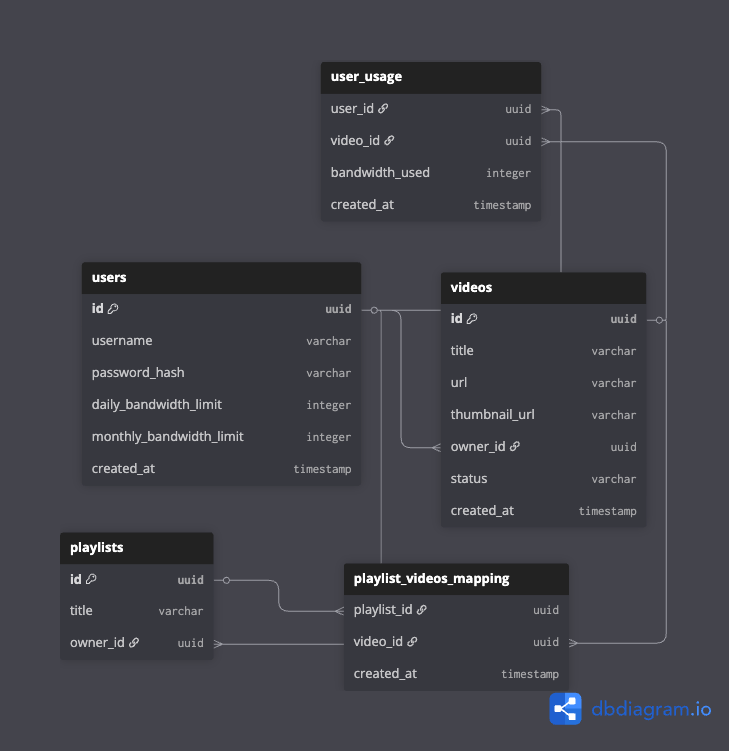
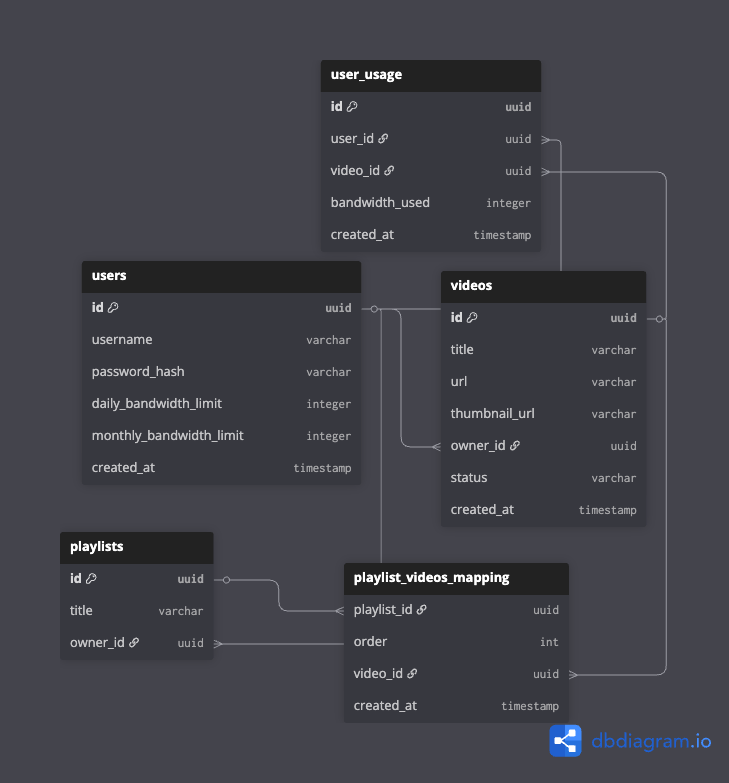
Adding DB Design data for VPS Service

diff --git a/docs/DBDesign.md b/docs/DBDesign.md
@@ -1,6 +1,10 @@
 # DB Design For The Project
 
 ## DBDiagram.io Structure
+
+![DB Design](./images/DBDiagram.png)
+
+```dbml
 Table users {
   id uuid [primary key]
   username varchar
@@ -11,6 +15,7 @@ Table users {
 }
 
 Table user_usage {
+  id uuid [primary key]
   user_id uuid
   video_id uuid
   bandwidth_used integer
@@ -35,6 +40,7 @@ Table playlists {
 
 Table playlist_videos_mapping {
   playlist_id uuid
+  position int
   video_id uuid
   created_at timestamp
 }
@@ -51,3 +57,6 @@ Ref: "playlists"."id" < "playlist_videos_mapping"."playlist_id"
 Ref: "users"."id" < "user_usage"."user_id"
 
 Ref: "videos"."id" < "user_usage"."video_id"
+```
+
+## Purpose
